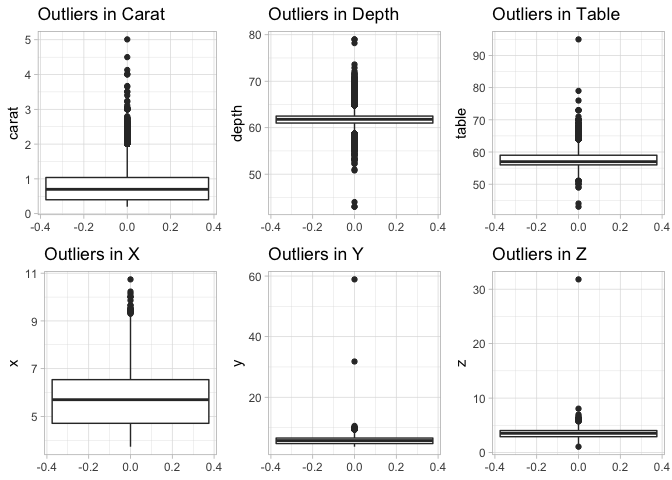
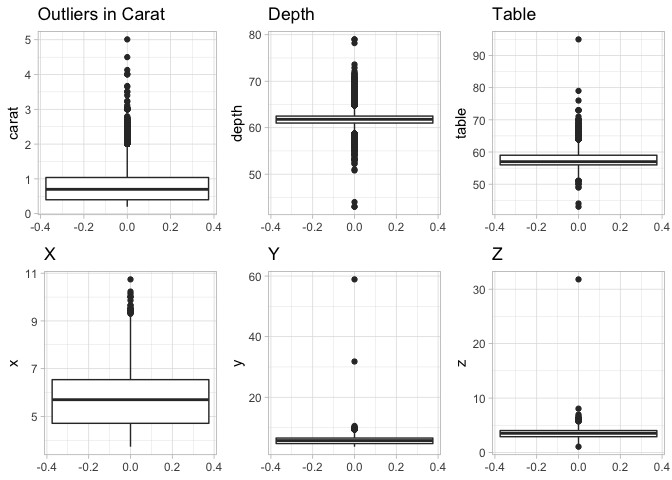
added a visual for vif

diff --git a/Data_Analysis_Price_Pred.md b/Data_Analysis_Price_Pred.md
@@ -9,6 +9,7 @@ Diamond Data Analysis
 -   [Exploratory Data Analysis](#exploratory-data-analysis)
     -   [Summary Stats](#summary-stats)
     -   [Price Plots](#price-plots)
+    -   [VIF](#vif)
 -   [Predict Price](#predict-price)
     -   [Spliting Data](#spliting-data)
     -   [Train Model](#train-model)
@@ -32,6 +33,22 @@ library(tidyverse)
 
 ``` r
 library(dplyr)
+library(car)
+```
+
+    ## Loading required package: carData
+    ## 
+    ## Attaching package: 'car'
+    ## 
+    ## The following object is masked from 'package:dplyr':
+    ## 
+    ##     recode
+    ## 
+    ## The following object is masked from 'package:purrr':
+    ## 
+    ##     some
+
+``` r
 library(cowplot)
 library(ggcorrplot)
 library(Metrics)
@@ -75,32 +92,32 @@ out_carat <- ggplot(data = df, aes(y = carat)) +
   theme_light()
 
 out_depth <- ggplot(data = df, aes(y = depth)) + 
-  ggtitle("Outliers in Depth") + 
+  ggtitle("Depth") + 
   geom_boxplot() + 
   theme_light()
 
 out_table <- ggplot(data = df, aes(y = table)) + 
-  ggtitle("Outliers in Table") + 
+  ggtitle("Table") + 
   geom_boxplot() + 
   theme_light()
 
 out_x <- ggplot(data = df, aes(y = x)) + 
-  ggtitle("Outliers in X") + 
+  ggtitle("X") + 
   geom_boxplot() + 
   theme_light()
 
 out_y <- ggplot(data = df, aes(y = y)) + 
-  ggtitle("Outliers in Y") + 
+  ggtitle("Y") + 
   geom_boxplot() + 
   theme_light()
 
 out_z <- ggplot(data = df, aes(y = z)) + 
-  ggtitle("Outliers in Z") + 
+  ggtitle("Z") + 
   geom_boxplot() + 
   theme_light()
 
 out_price <- ggplot(data = df, aes(y = price)) + 
-  ggtitle("Outliers in Price") + 
+  ggtitle("Price") + 
   geom_boxplot() + 
   theme_light()
 
@@ -175,12 +192,39 @@ ggplot(data = df, aes(x=price, fill=clarity)) +
 ```
 
 ![](Data_Analysis_Price_Pred_files/figure-gfm/price_cat-3.png)<!-- -->
+### Correlation Plot
 
 ``` r
 ggcorrplot(cor(numerical_features), lab = TRUE)
 ```
 
 ![](Data_Analysis_Price_Pred_files/figure-gfm/correlation_plot-1.png)<!-- -->
+
+### VIF
+
+``` r
+model_vif_all <- lm(data = df, formula = price ~ carat + depth + table + x + y + z)
+
+vif_values <- vif(model_vif_all)
+
+barplot(vif_values, main = "VIF Values, All Features", horiz = TRUE, col = "steelblue"
+        ,las=1, xlab = 'VIF', ylab = 'Feature')
+
+abline(v = 5, lwd = 3, lty = 2)
+```
+
+![](Data_Analysis_Price_Pred_files/figure-gfm/VIF-1.png)<!-- -->
+
+``` r
+model_vif_remove <- lm(data = df, formula = price ~ carat + depth + table)
+
+vif_values_remove <- vif(model_vif_remove)
+
+barplot(vif_values_remove, main = "VIF Values, Minus X Y Z", horiz = TRUE, col = "steelblue"
+        ,las=1, xlim= c(0,3), xlab = 'VIF', ylab = 'Feature')
+```
+
+![](Data_Analysis_Price_Pred_files/figure-gfm/VIF-2.png)<!-- -->
 
 ## Predict Price
 
@@ -248,10 +292,22 @@ y_pred <- predict(lin_model, newdata = test[, colnames(test)[colnames(test) != '
 ### Results
 
 ``` r
+print('RMSE:')
+```
+
+    ## [1] "RMSE:"
+
+``` r
 rmse(test$price,y_pred)
 ```
 
     ## [1] 1153.436
+
+``` r
+print('MAE:')
+```
+
+    ## [1] "MAE:"
 
 ``` r
 mae(test$price,y_pred)
